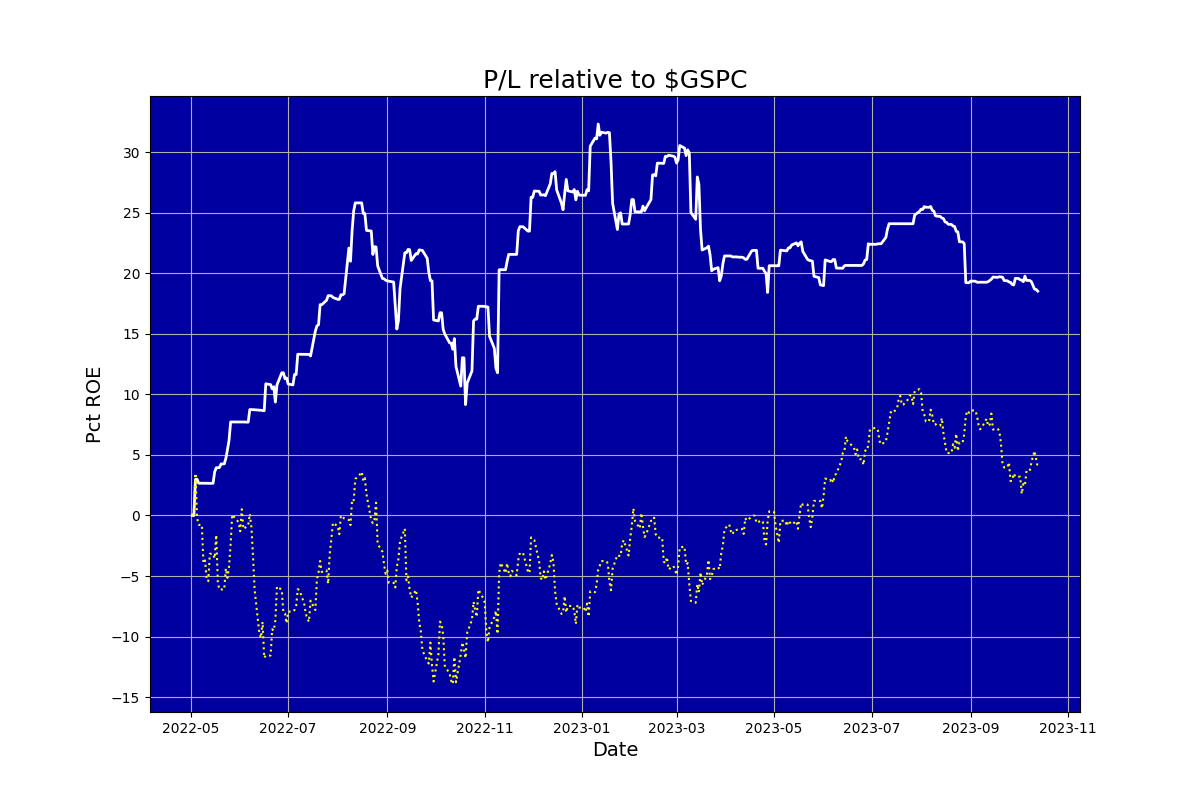
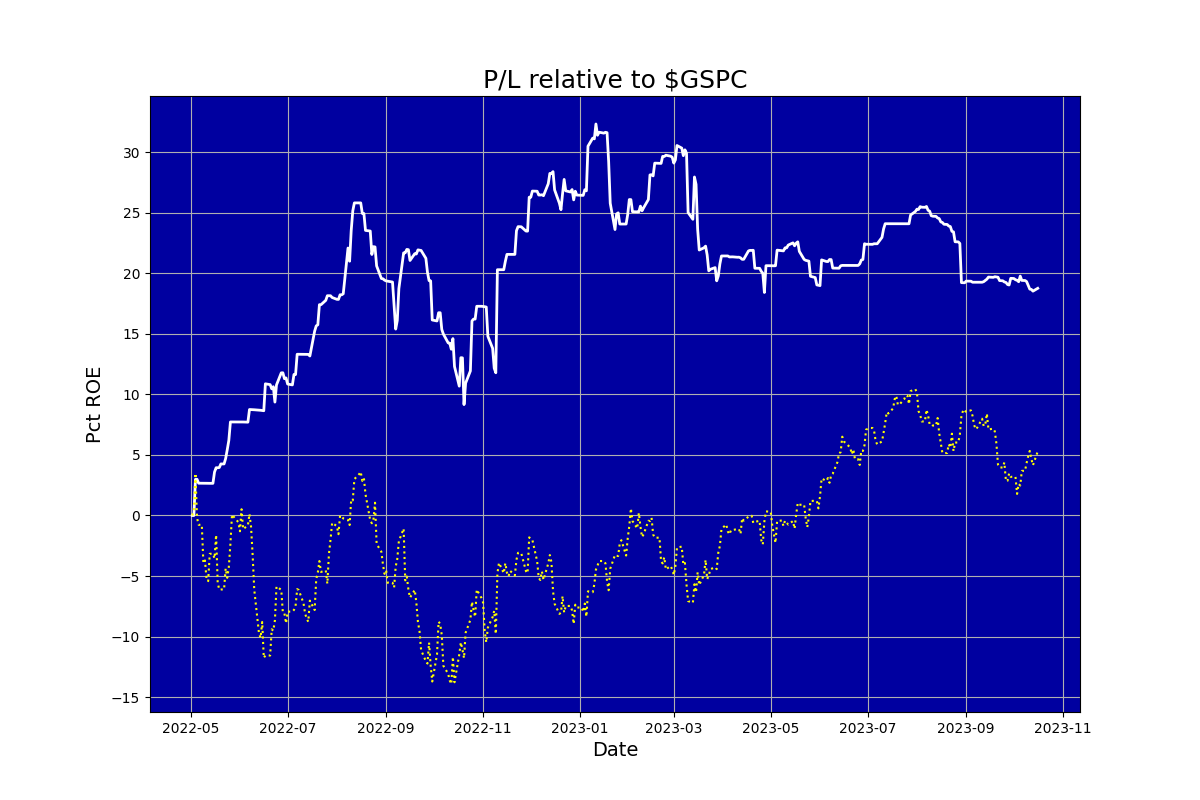
Updated

diff --git a/ig_report.html b/ig_report.html
@@ -1,1 +1,1 @@
-<html><body><center><h1>Auriel (never knowingly overbought)</h1></center><table cols=2><tr><td><img src=ig_pl.png></td><td><table cols=2><tr><td colspan=2><b><br>Snapshot</b></td></tr><tr><td>Last updated:&nbsp;&nbsp;&nbsp;</td><td>2023-10-13 15:54</td></tr><tr><td>Margin:&nbsp;&nbsp;&nbsp;</td><td>0.36</td></tr><tr><td>Cushion:&nbsp;&nbsp;&nbsp;</td><td>-45058.97</td></tr><tr><td>Last closed trade:&nbsp;&nbsp;&nbsp;</td><td>2023-10-13</td></tr><tr><td colspan=2><b><br>Positions</b></td></tr><tr><td>Mean days to new high:&nbsp;&nbsp;&nbsp;</td><td>17.14</td></tr><tr><td colspan=2><b><br>Trades</b></td></tr><tr><td>Traded days:&nbsp;&nbsp;&nbsp;</td><td>389</td></tr><tr><td>Profitable days pct:&nbsp;&nbsp;&nbsp;</td><td>34.19</td></tr><tr><td>Days beat S&P pct:&nbsp;&nbsp;&nbsp;</td><td>53.83</td></tr><tr><td>Profitable months pct:&nbsp;&nbsp;&nbsp;</td><td>61.11</td></tr><tr><td colspan=2><b><br>Performance</b></td></tr><tr><td>Pct median monthly ROE:&nbsp;&nbsp;&nbsp;</td><td>0.75</td></tr><tr><td>Pct annualised ROE:&nbsp;&nbsp;&nbsp;</td><td>11.91</td></tr><tr><td colspan=2><b><br>Risk</b></td></tr><tr><td>Volatility pct:&nbsp;&nbsp;&nbsp;</td><td>16.46</td></tr><tr><td>Benchmark volatility pct:&nbsp;&nbsp;&nbsp;</td><td>19.61</td></tr><tr><td>Sharpe ratio (RFR 5.0%):&nbsp;&nbsp;&nbsp;</td><td>0.52</td></tr><tr><td>Sortino ratio (RFR 5.0%):&nbsp;&nbsp;&nbsp;</td><td>0.70</td></tr><tr><td>Calmar ratio:&nbsp;&nbsp;&nbsp;</td><td>0.71</td></tr><tr><td>Worst drawdown pct:&nbsp;&nbsp;&nbsp;</td><td>-0.17</td></tr><tr><td>Recovery days from worst drawdown:&nbsp;&nbsp;&nbsp;</td><td>29.00</td></tr><tr><td>Beat benchmark +ve periods pct:&nbsp;&nbsp;&nbsp;</td><td>31.11</td></tr><tr><td>Beat benchmark -ve periods pct:&nbsp;&nbsp;&nbsp;</td><td>83.13</td></tr><tr><td>Correlation with benchmark:&nbsp;&nbsp;&nbsp;</td><td>0.33</td></tr></table></td></tr></table></body></html>
+<html><body><center><h1>Auriel (never knowingly overbought)</h1></center><table cols=2><tr><td><img src=ig_pl.png></td><td><table cols=2><tr><td colspan=2><b><br>Snapshot</b></td></tr><tr><td>Last updated:&nbsp;&nbsp;&nbsp;</td><td>2023-10-16 15:54</td></tr><tr><td>Margin:&nbsp;&nbsp;&nbsp;</td><td>0.33</td></tr><tr><td>Cushion:&nbsp;&nbsp;&nbsp;</td><td>-44103.79</td></tr><tr><td>Last closed trade:&nbsp;&nbsp;&nbsp;</td><td>2023-10-16</td></tr><tr><td colspan=2><b><br>Positions</b></td></tr><tr><td>Mean days to new high:&nbsp;&nbsp;&nbsp;</td><td>17.38</td></tr><tr><td colspan=2><b><br>Trades</b></td></tr><tr><td>Traded days:&nbsp;&nbsp;&nbsp;</td><td>390</td></tr><tr><td>Profitable days pct:&nbsp;&nbsp;&nbsp;</td><td>34.36</td></tr><tr><td>Days beat S&P pct:&nbsp;&nbsp;&nbsp;</td><td>53.68</td></tr><tr><td>Profitable months pct:&nbsp;&nbsp;&nbsp;</td><td>61.11</td></tr><tr><td colspan=2><b><br>Performance</b></td></tr><tr><td>Pct median monthly ROE:&nbsp;&nbsp;&nbsp;</td><td>0.75</td></tr><tr><td>Pct annualised ROE:&nbsp;&nbsp;&nbsp;</td><td>12.03</td></tr><tr><td colspan=2><b><br>Risk</b></td></tr><tr><td>Volatility pct:&nbsp;&nbsp;&nbsp;</td><td>16.44</td></tr><tr><td>Benchmark volatility pct:&nbsp;&nbsp;&nbsp;</td><td>19.60</td></tr><tr><td>Sharpe ratio (RFR 5.0%):&nbsp;&nbsp;&nbsp;</td><td>0.53</td></tr><tr><td>Sortino ratio (RFR 5.0%):&nbsp;&nbsp;&nbsp;</td><td>0.71</td></tr><tr><td>Calmar ratio:&nbsp;&nbsp;&nbsp;</td><td>0.72</td></tr><tr><td>Worst drawdown pct:&nbsp;&nbsp;&nbsp;</td><td>-0.17</td></tr><tr><td>Recovery days from worst drawdown:&nbsp;&nbsp;&nbsp;</td><td>29.00</td></tr><tr><td>Beat benchmark +ve periods pct:&nbsp;&nbsp;&nbsp;</td><td>30.99</td></tr><tr><td>Beat benchmark -ve periods pct:&nbsp;&nbsp;&nbsp;</td><td>82.89</td></tr><tr><td>Correlation with benchmark:&nbsp;&nbsp;&nbsp;</td><td>0.33</td></tr></table></td></tr></table></body></html>
